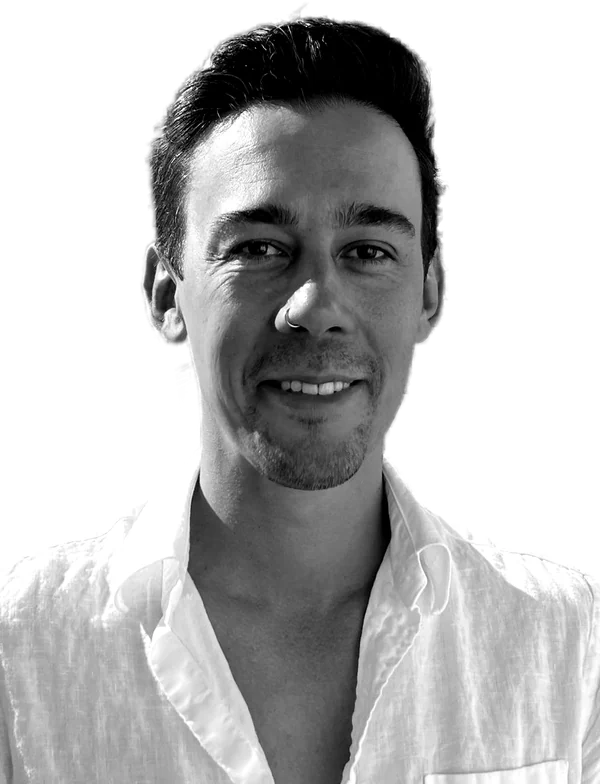
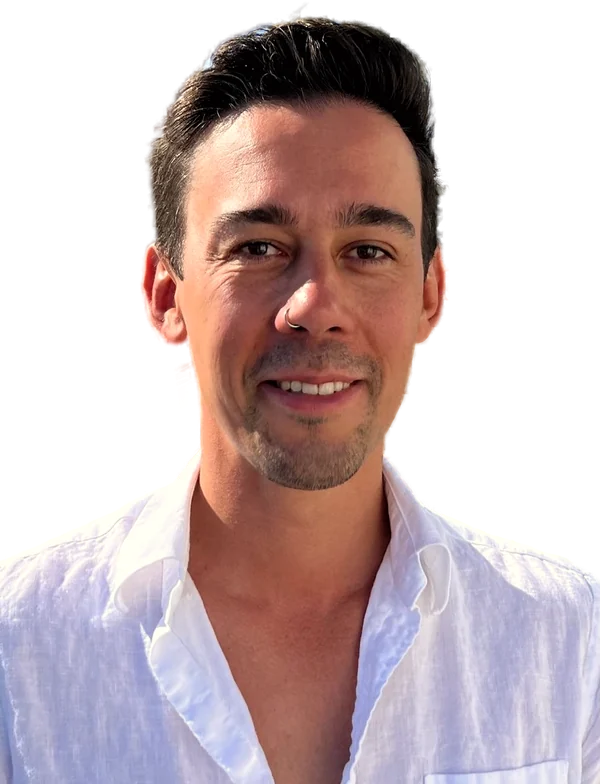
Hero: colour portrait with gradient ring, fades with text; reload opens first slide; seamless language switch
- Portrait: colour cut-out, gradient circle fill, animated conic gradient ring, fades out together with hero text
- Reload always scrolls to top (manual scroll restoration)
- Language switch keeps scroll position and gradient (transition:persist, skipTransition)

Claude-Session: https://claude.ai/code/session_0119GZRZJ2E6EHHBXrJoVv6L

diff --git a/src/scripts/motion.ts b/src/scripts/motion.ts
@@ -6,6 +6,25 @@ gsap.registerPlugin(ScrollTrigger);
 
 const prefersReducedMotion = () => window.matchMedia('(prefers-reduced-motion: reduce)').matches;
 
+// Перезагрузка страницы всегда открывает первый слайд: браузер не восстанавливает прокрутку.
+if ('scrollRestoration' in history) history.scrollRestoration = 'manual';
+window.scrollTo(0, 0);
+
+/**
+ * Смена языка должна менять только текст: позиция прокрутки сохраняется, анимация
+ * перехода пропускается. Переключатель языка вызывает это перед навигацией.
+ */
+let keptScroll: number | null = null;
+export function keepViewOnNextSwap() {
+  keptScroll = window.scrollY;
+}
+
+function restoreKeptScroll() {
+  if (keptScroll === null) return;
+  lenis?.scrollTo(keptScroll, { immediate: true, force: true });
+  window.scrollTo(0, keptScroll);
+}
+
 /**
  * Lenis создаётся один раз и живёт между переходами View Transitions
  * (скрипт-модуль исполняется однократно, `<html>` не пересоздаётся).
@@ -55,9 +74,15 @@ document.addEventListener('astro:page-load', () => {
     setups.forEach((setup) => runSetup(setup, reducedMotion));
   });
   ScrollTrigger.refresh();
+  if (keptScroll !== null) {
+    restoreKeptScroll();
+    ScrollTrigger.update();
+    keptScroll = null;
+  }
 });
 
-document.addEventListener('astro:before-swap', () => {
+document.addEventListener('astro:before-swap', (event) => {
+  if (keptScroll !== null) event.viewTransition.skipTransition();
   cleanups.forEach((cleanup) => cleanup());
   cleanups = [];
   pageContext?.revert();
@@ -65,7 +90,8 @@ document.addEventListener('astro:before-swap', () => {
 });
 
 document.addEventListener('astro:after-swap', () => {
-  lenis?.scrollTo(0, { immediate: true });
+  if (keptScroll !== null) restoreKeptScroll();
+  else lenis?.scrollTo(0, { immediate: true });
 });
 
 export { gsap, ScrollTrigger };

diff --git a/src/scripts/hero-gradient.ts b/src/scripts/hero-gradient.ts
@@ -417,7 +417,8 @@ export function mountHeroGradient(
   const intersectionObserver = new IntersectionObserver(([entry]) => {
     visible = entry?.isIntersecting ?? true;
   });
-  intersectionObserver.observe(root);
+  // Следим за самим холстом: он переживает смену языка (transition:persist), а root — нет.
+  intersectionObserver.observe(canvas);
 
   const unsubscribe = onFrame((now) => {
     const dt = lastFrame === null ? 0 : Math.min(now - lastFrame, 0.1);

diff --git a/CLAUDE.md b/CLAUDE.md
@@ -123,11 +123,13 @@
 - `src/i18n/` — строки интерфейса (`ui.ts`), хелперы ссылок, выборка кейсов по локали
 - `src/content/{ru,en}/cases/*.mdx` — кейсы; `hello-world.mdx` тестовый, удалить при появлении настоящих
 - `src/scripts/motion.ts` — Lenis + GSAP; анимации страницы регистрируются через `onPage()`, чистятся сами при переходах
+- **Перезагрузка всегда открывает первый слайд** (`history.scrollRestoration = 'manual'` + прокрутка наверх в `motion.ts`).
+- **Смена языка меняет только текст**: переключатель вызывает `keepViewOnNextSwap()` — прокрутка сохраняется, анимация перехода пропускается; фон hero с градиентом — `transition:persist`, градиент не перезапускается и продолжает анимацию; фильтр фона (монохром по скроллу) сохраняется через переход.
 - `src/components/Hero.astro` + `src/scripts/hero-gradient.ts` — hero на весь экран с WebGL-градиентом, на курсор **не** реагирует. Палитра — `--hero-colors` в `Hero.astro`: кольцо со стопами «#hex N%» (последний цвет = первому). **Жёлтый всегда посередине экрана**: палитра не прокручивается, центр экрана привязан к `--hero-anchor` (центр жёлтой зоны), изгибы в центре вычитаются. **Пять цветов** (после «Янтаря» убрана половина: персик, фуксия, орхидея, тени): жёлтый (печёный `#e0a33a` + медовый `#f0bd4f`, ~30% кольца → **на экране 45–60%**; `--hero-anchor-area: 30% 52%` — плотность лент подстраивается под наклон, чтобы площадь жёлтого не зависела от него; окно палитры 0.7…0.92 круга; замер: среднее 55%, ~75% кадров в 45–60%, выбросы 38–74% в сильные изгибы) → розовый `#ff6fae` → сиреневый `#b58cff` → голубой `#7ccfff` → крем `#f6e7c1` → жёлтый. **Крем — растушёванный светлый градиент с обеих сторон жёлтого** (точки `--hero-soft`: вокруг них шейдер усредняет палитру в широком окне → мягкое свечение, а не полоска; остальные границы не размываются): голубой → крем → жёлтый → крем → розовый (единственное исключение из правила «один цвет — один кусок», по просьбе пользователя). Цвета смешиваются в **OKLab** (не в RGB — там середины переходов выцветали в «пыльные»). Соседи подобраны под чистые стыки (жёлтый→розовый = лососевый, розовый→сиреневый = орхидея, сиреневый→голубой = барвинок; голубой→жёлтый только через крем, иначе грязно-зелёный) — при добавлении цветов проверять середину стыка. **Каждый цвет — один сплошной участок кольца, не дробим на части**; на экране ~0.92 круга (строго меньше одного), чтобы цвет не повторялся; между голубым и жёлтым — широкий кремовый мостик `#f6e7c1` (~13% кольца), растянутый длинными переходами. Поверх градиента — чёрный слой `.hero__shade` — сейчас 0% (выключен). Поверх градиента, но под текстом — наклонная сетка `.hero__stripes` (**сейчас скрыта**, `display: none`): линии 2px под 45° сверху-слева вниз-направо, промежуток 8px (шаг 10px), цвет `#141414`, прозрачность слоя 2.5%, без заливки. **Анимация всегда стартует с одного и того же кадра** — `startTime: 140.75` в пресете `soft`, кадр по скриншоту пользователя (жёлтый во весь экран, розовый с кремовой каймой вверху); при изменении формулы потока или палитры стартовый кадр надо подобрать заново. Форма — «гнущийся лист»: ленты близки к горизонтали (~20°), направление покачивается ±30°. **Принцип: выступ на одном краю ленты = вмятина напротив, на другом краю** — ленты гнутся вместе, толщина сохраняется (±15%), цвета не раздуваются и не расталкивают соседей; палитра не прокручивается (прокрутка выглядела как «выталкивание» одного цвета другим и уводила жёлтый с экрана). Изгибы — сдвиг поперёк лент, зависящий в основном от координаты вдоль лент (**только крупные размашистые изгибы** — два крупных слоя шума + одна длинная пологая волна; мелкие изгибы запрещены); хаос — «порывы» силы изгибов (0.2…1.4), непостоянная, но **всегда положительная** скорость дрейфа изгибов вдоль лент (оба слоя в одну сторону — **движение обратно запрещено**); «вдохи» — жёлтая лента время от времени растягивается по высоте до ×1.5; **завихрения** — два плавающих центра (плывут в одну сторону) подкручивают ленты до ±90° по/против часовой: лента может заворачиваться крюком/S-петлёй (поворот по радиусу — обратимый, без дырок и пиков), быстрая эволюция; производная поперёк < 1, поэтому нет замкнутых форм («дырки», мишени) и острых пиков. Отвергнуто: шум-пятна, разнонаправленный дрейф слоёв, течение вдоль лент со скольжением слоёв, цепочка общих деформаций (раздувала одни цвета и сжимала другие). Пресеты `HERO_PRESETS`: `soft` (текущий: медленная смена оттенков, `edge: 0.8` — все переходы на 20% уже исходных, `timeScale: 0.53` — скорость движения) и `vivid` (быстрее, границы резче). Пресет по умолчанию — в `Hero.astro`. Палитра общая для обоих пресетов
 - `src/styles/tokens.css` — сетка, шрифт, цвета, шкала текста. Шрифт — **Onest Variable** (`@fontsource-variable/onest`, self-hosted): заголовки 800, текст 400
 - `src/components/Logo.astro` — логотип PIANOV векторным SVG (монолиния, круглые концы, `currentColor`), в шапке слева, ведёт на главную локали. Высота — токен `--logo-h`
 - `src/components/LanguageSwitcher.astro` — переключатель языка в шапке справа: иконка планеты 24×24px (линия 1.7px), по нажатию сразу переключает на другой язык (RU ↔ EN) и пишет cookie `lang`
-- Портрет в hero справа от текста: `public/images/portrait-{600,860}.webp` — фото без фона (вырезано нейросетью rembg/isnet), чёрно-белое с контрастом, в розовом круге `#ff6fae`; два слоя одной картинки — нижний обрезан кругом, верхний виден выше середины круга, поэтому голова выходит за верх круга. Мобильные — портрет 200px над текстом
+- Портрет в hero справа от текста: `public/images/portrait-{600,860}.webp` — фото без фона (вырезано нейросетью rembg/isnet), цветное с лёгкой обработкой (контраст, насыщенность, тепло), в круге с цветным градиентным фоном (розовый → сиреневый → голубой) и нарядной градиентной обводкой из цветов палитры (медленно вращается, при reduced motion — стоит); два слоя одной картинки — нижний обрезан кругом, верхний виден выше середины круга, поэтому голова выходит за верх круга. При скролле растворяется синхронно с текстом (общий твин opacity). Мобильные — портрет 200px над текстом
 - Hero: заголовок «Архитектура, дизайн, процессы, ИИ» + подпись (`home.intro.*` в `ui.ts`), прижат к левой линии `--gutter`, по центру экрана по вертикали
 - Второй слайд: фон hero липкий (`.hero__bg`, sticky) на оба слайда. Сцена скролла — в `Hero.astro` (ScrollTrigger, scrub). Длина сцены = путь плиток от старта (`--tiles-start` 100dvh, низ экрана) до финальной точки: верх плиток на `--tiles-final-top` (100px от верха экрана). Плитки (`src/components/Tiles.astro`, 2 × 2, на мобиле в колонку, пропорция `--tile-ratio` 4:4.5 (на мобиле 3:4.5), зазор `--tile-gap`: мобила 52px, планшет (768–1279) 72px, десктоп 100px, от линии до линии сетки; внутри — заголовок, подпись и условная картинка до нижнего края, проекты `tiles.1–4.title` в `ui.ts`: Альфа Банк / Alfa-Bank, Betting, Quantori, Метр квадратный / Metr Kvadratny; подпись пока заглушка `tiles.placeholder.lead`) подтягиваются по очереди слева направо (`STAGGER` 0.15 сцены между колонками; каждая следующая колонка стартует ниже на `COL_DROP` 240px; ждущая колонка держится на месте экрана) и проявляются: плашка (`.tiles__plate`) opacity 0.1 → 1, заливка `--tile-bg` белый 50% прозрачности, у каждой плашки своя крупная абстрактная композиция «по мотивам» растений на всю плашку, уходит за края (`PRINTS` в `Tiles.astro`, все в стиле утверждённой плитки 2 — крупные листья с прожилками крест-накрест: 1 — веер из трёх листьев из левого нижнего угла, 2 — два листа крест-накрест (эталон), 3 — два листа из верхних углов, 4 — огромный лист по диагонали и второй поперёк; заливка `--tile-print-fill`, контур `--tile-print`). Мелкие повторяющиеся узоры не использовать — пользователь просил крупные мазки, без «детского сада»; содержимое (`.tiles__body`: заголовок, подпись, картинка) — с запаздыванием `BODY_LAG` и своим параллаксом `BODY_SHIFT`, opacity 0 → 1, в финале без прозрачности. Подтягивание, параллакс и проявление идут до самого финала сцены (`ALIGN` = 1): в финале плитки выровнены по верху на 100px. Прилипание (свой snap в `Hero.astro`, не `lenis/snap` — тот решает по недоехавшей позиции): после полной остановки скролла ряд плиток в пределах `SNAP_RANGE` (50% экрана) доводится верхом до 100px (0.9с, ease-out cubic); снизу у `.tiles` запас места, чтобы и последний ряд мог встать на 100px, градиент полностью монохромный (`grayscale`). Текст hero реагирует на скролл с задержкой: первые `TEXT_HOLD` (15% экрана) стоит на месте, потом плавно трогается (ease power1.out, без рывка); растворяется (1 → 0) и исчезает, когда целиком уходит под шапку
 - `site` в `astro.config.mjs` — заглушка, заменить на реальный домен
